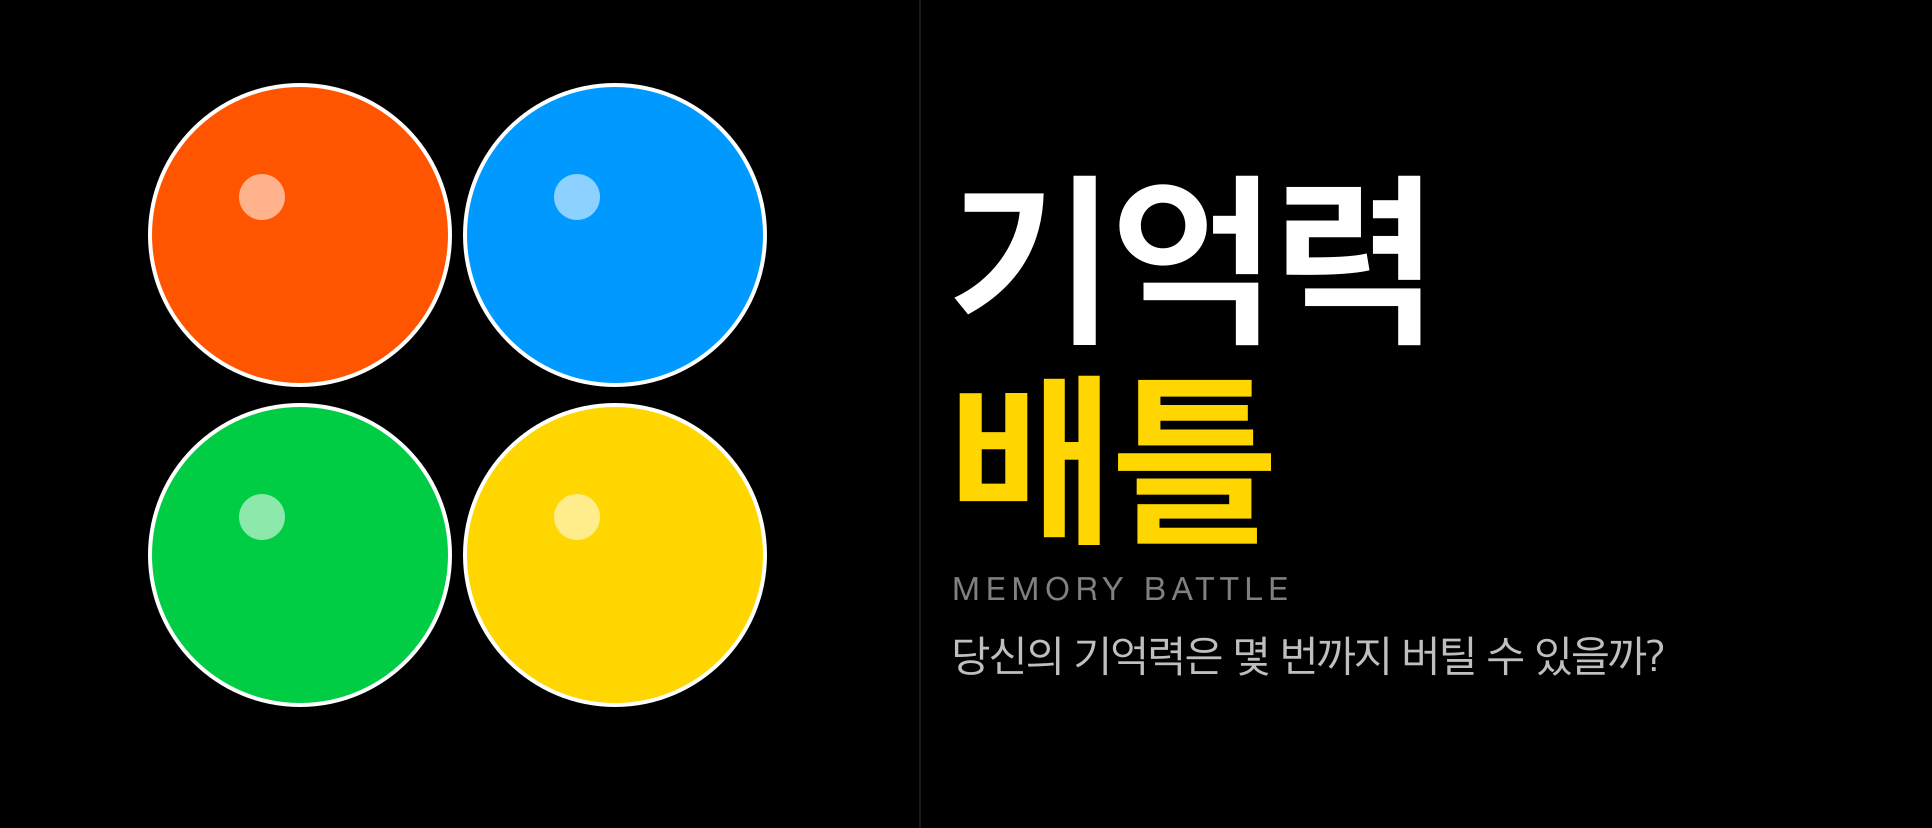
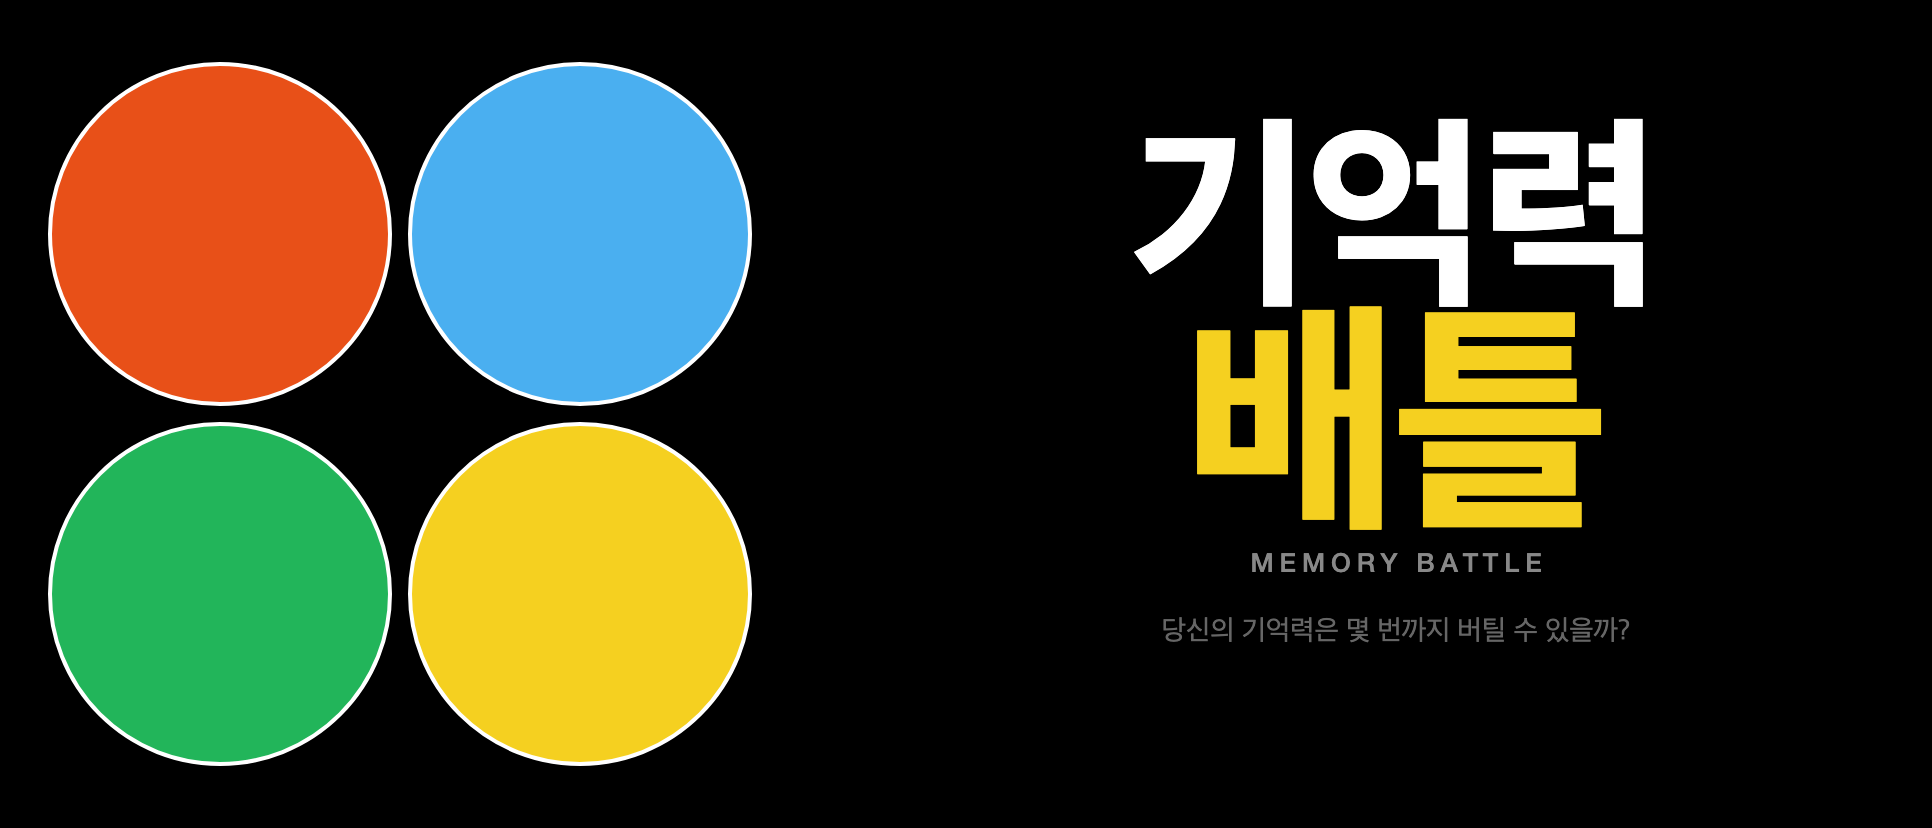
fix: UI 버그 수정 + 에셋 업데이트
- RankingRow/RankingTab 색상 팔레트 교체 (vb- 다크 팔레트 변수 적용)
- ButtonPad/TimerGauge 스타일 수정
- index.css 변수 정리
- VariantB 레이아웃 수정
- logo, thumbnail 에셋 업데이트

diff --git a/src/components/game/ButtonPad.tsx b/src/components/game/ButtonPad.tsx
@@ -46,14 +46,14 @@ export function ButtonPad({
 
   const centerLabel = () => {
     if (isCounting) {
-      return <span style={{ fontSize: 14, fontWeight: 800, color: '#FF6900', letterSpacing: 1 }}>READY</span>
+      return <span style={{ fontSize: 14, fontWeight: 800, color: '#D4A843', letterSpacing: 1 }}>READY</span>
     }
     if (isClearing) {
       return (
         <div style={{ textAlign: 'center', lineHeight: 1.15 }}>
-          <div style={{ fontSize: 9, color: '#FF6900', fontWeight: 800, letterSpacing: 1 }}>STAGE</div>
+          <div style={{ fontSize: 9, color: '#D4A843', fontWeight: 800, letterSpacing: 1 }}>STAGE</div>
           <div style={{ fontSize: 20, color: '#fff', fontWeight: 900 }}>{clearingStage}</div>
-          <div style={{ fontSize: 9, color: '#FF6900', fontWeight: 700 }}>CLEAR ✓</div>
+          <div style={{ fontSize: 9, color: '#D4A843', fontWeight: 700 }}>CLEAR ✓</div>
         </div>
       )
     }
@@ -168,7 +168,7 @@ export function ButtonPad({
           width: CENTER,
           height: CENTER,
           borderRadius: '50%',
-          border: `2px solid ${isClearing ? '#FF6900' : 'rgba(255,255,255,0.10)'}`,
+          border: `2px solid ${isClearing ? '#D4A843' : 'rgba(255,255,255,0.10)'}`,
           cursor: isCenterClickable ? 'pointer' : 'default',
           background: isClearing
             ? 'radial-gradient(circle at 40% 35%, #2a2a3e, #111120)'
@@ -177,7 +177,7 @@ export function ButtonPad({
           alignItems: 'center',
           justifyContent: 'center',
           boxShadow: isClearing
-            ? '0 0 16px #FF690066, inset 0 2px 1px rgba(255,255,255,0.08)'
+            ? '0 0 16px #D4A84366, inset 0 2px 1px rgba(255,255,255,0.08)'
             : 'inset 0 2px 1px rgba(255,255,255,0.07), inset 0 -1px 2px rgba(0,0,0,0.4), 0 4px 12px rgba(0,0,0,0.5)',
           transition: 'border-color 200ms, box-shadow 200ms',
           zIndex: 3,

diff --git a/src/components/ranking/RankingRow.tsx b/src/components/ranking/RankingRow.tsx
@@ -18,8 +18,8 @@ export function RankingRow({ rank, score, isMe }: RankingRowProps) {
         alignItems: 'center',
         padding: '10px 16px',
         borderRadius: 10,
-        backgroundColor: isMe ? 'rgba(255,105,0,0.15)' : 'transparent',
-        border: isMe ? '1px solid rgba(255,105,0,0.3)' : '1px solid transparent',
+        backgroundColor: isMe ? 'rgba(212,168,67,0.15)' : 'transparent',
+        border: isMe ? '1px solid rgba(212,168,67,0.3)' : '1px solid transparent',
         gap: 12,
       }}
     >
@@ -57,7 +57,7 @@ export function RankingRow({ rank, score, isMe }: RankingRowProps) {
         style={{
           fontSize: 15,
           fontWeight: 800,
-          color: isMe ? '#FF6900' : 'var(--vb-text)',
+          color: isMe ? '#D4A843' : 'var(--vb-text)',
           flexShrink: 0,
         }}
       >

diff --git a/src/components/game/TimerGauge.tsx b/src/components/game/TimerGauge.tsx
@@ -21,7 +21,7 @@ export function TimerGauge({ timeLeft, duration, active }: TimerGaugeProps) {
           height: '100%',
           borderRadius: 6,
           width: `${ratio * 100}%`,
-          backgroundColor: active ? (isWarning ? '#ef4444' : '#FF6900') : '#2a2a3e',
+          backgroundColor: active ? (isWarning ? '#ef4444' : '#D4A843') : '#2a2a3e',
           transition: 'width 100ms linear, background-color 200ms ease',
         }} />
       </div>

diff --git a/src/components/ranking/RankingTab.tsx b/src/components/ranking/RankingTab.tsx
@@ -31,7 +31,7 @@ export function RankingTab({ active, onChange }: RankingTabProps) {
               padding: '8px 0',
               borderRadius: 9,
               border: 'none',
-              backgroundColor: isActive ? '#FF6900' : 'transparent',
+              backgroundColor: isActive ? '#D4A843' : 'transparent',
               color: isActive ? '#fff' : 'var(--text-muted)',
               fontSize: 13,
               fontWeight: isActive ? 700 : 400,

diff --git a/src/index.css b/src/index.css
@@ -5,8 +5,8 @@
   --vb-surface: #18181b;
   --vb-surface-2: #1f1f23;
   --vb-border: #2a2a2e;
-  --vb-accent: #c8ff00;
-  --vb-accent-dim: #6b8a00;
+  --vb-accent: #D4A843;
+  --vb-accent-dim: #8B7332;
   --vb-text: #e8e8ea;
   --vb-text-mid: #8b8b90;
   --vb-text-dim: #505055;
@@ -80,7 +80,7 @@ body {
 
 #root {
   width: 100%;
-  max-width: 430px;
+  max-width: 636px;
   height: 100dvh;
   margin: 0 auto;
   display: flex;

diff --git a/src/variants/VariantB.tsx b/src/variants/VariantB.tsx
@@ -35,8 +35,8 @@ const STYLE_TAG = `
   --vb-surface: #18181b;
   --vb-surface-2: #1f1f23;
   --vb-border: #2a2a2e;
-  --vb-accent: #c8ff00;
-  --vb-accent-dim: #6b8a00;
+  --vb-accent: #D4A843;
+  --vb-accent-dim: #8B7332;
   --vb-text: #e8e8ea;
   --vb-text-mid: #8b8b90;
   --vb-text-dim: #505055;
